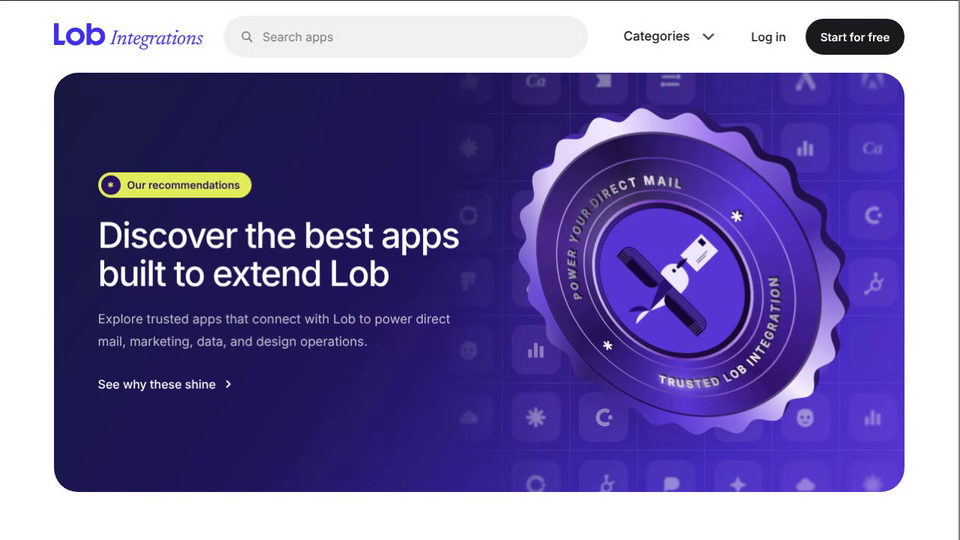
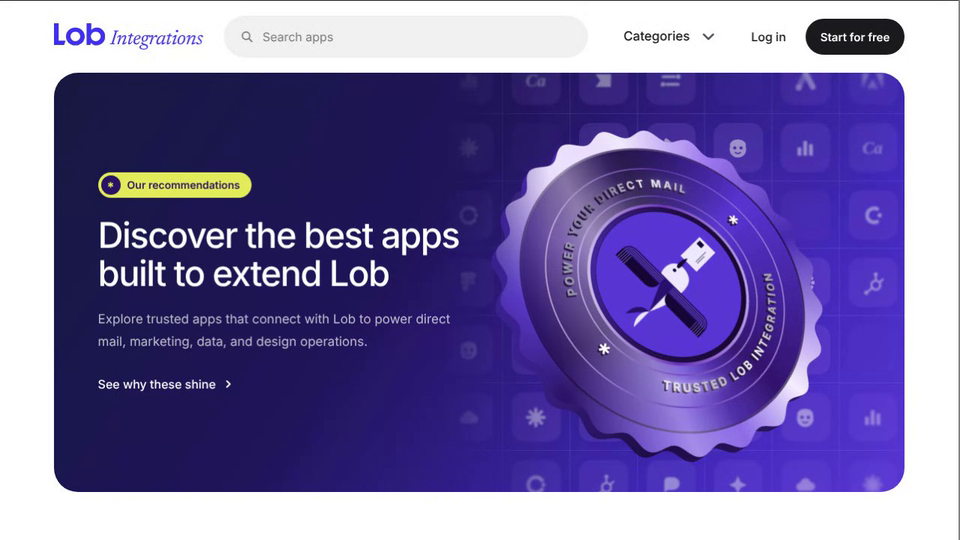
Lob Integrations Hero: resting badge tilt uses the circled angle (Y +35)
Claude-Session: https://claude.ai/code/session_01AHeBdw5Dmhovddhvfinq8X

Changed region(s): [[0.5, 0.1778, 0.9062, 0.8593]]

diff --git a/lob-integrations-hero/index.html b/lob-integrations-hero/index.html
@@ -342,7 +342,7 @@ function frame(now){
   /* the badge rests at a fixed angle on the 135 degree diagonal; hovering over the visual tips it, and it eases back on leave */
   var wx=hover?tx:0, wy=hover?ty:0;
   px+=(wx-px)*.07; py+=(wy-py)*.07;
-  badge.style.transform='rotateZ(-45deg) rotateX('+(-py*16).toFixed(2)+'deg) rotateY('+(-35+px*24).toFixed(2)+'deg)';
+  badge.style.transform='rotateZ(-45deg) rotateX('+(-py*16).toFixed(2)+'deg) rotateY('+(35+px*24).toFixed(2)+'deg)';
   badge.style.setProperty('--a',(30+px*60+py*25).toFixed(1)+'deg');
   badge.style.setProperty('--gxn',(px*22).toFixed(1)); badge.style.setProperty('--gyn',(-10+py*18).toFixed(1));
   var ang=(px*60+py*25).toFixed(1);
